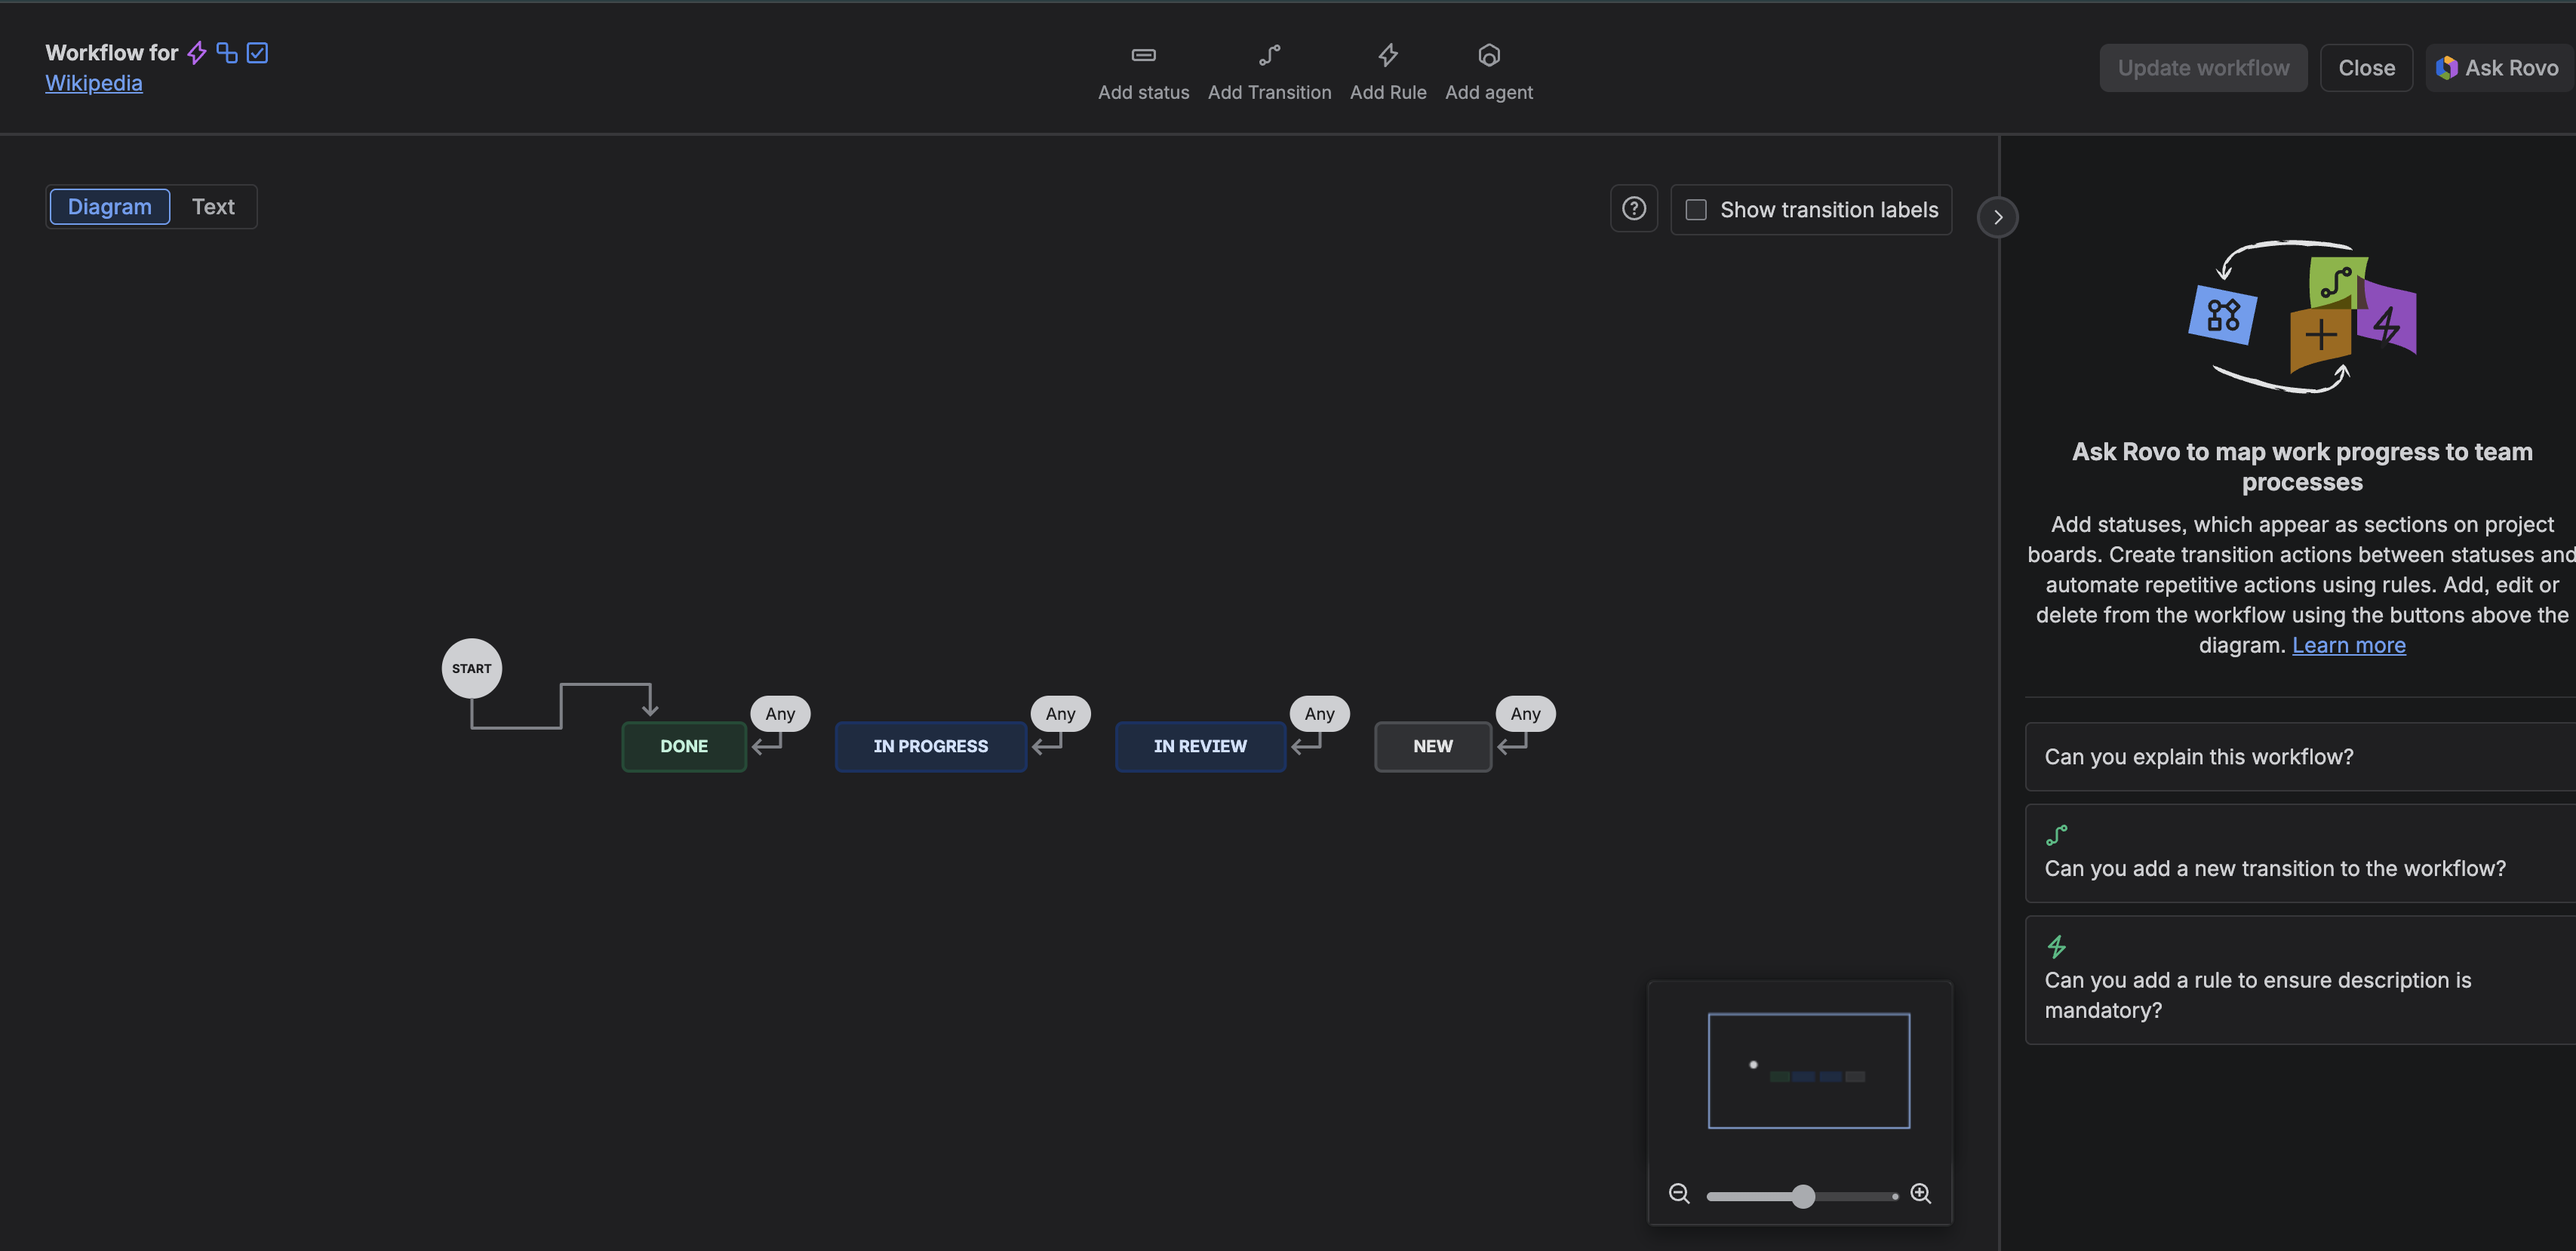
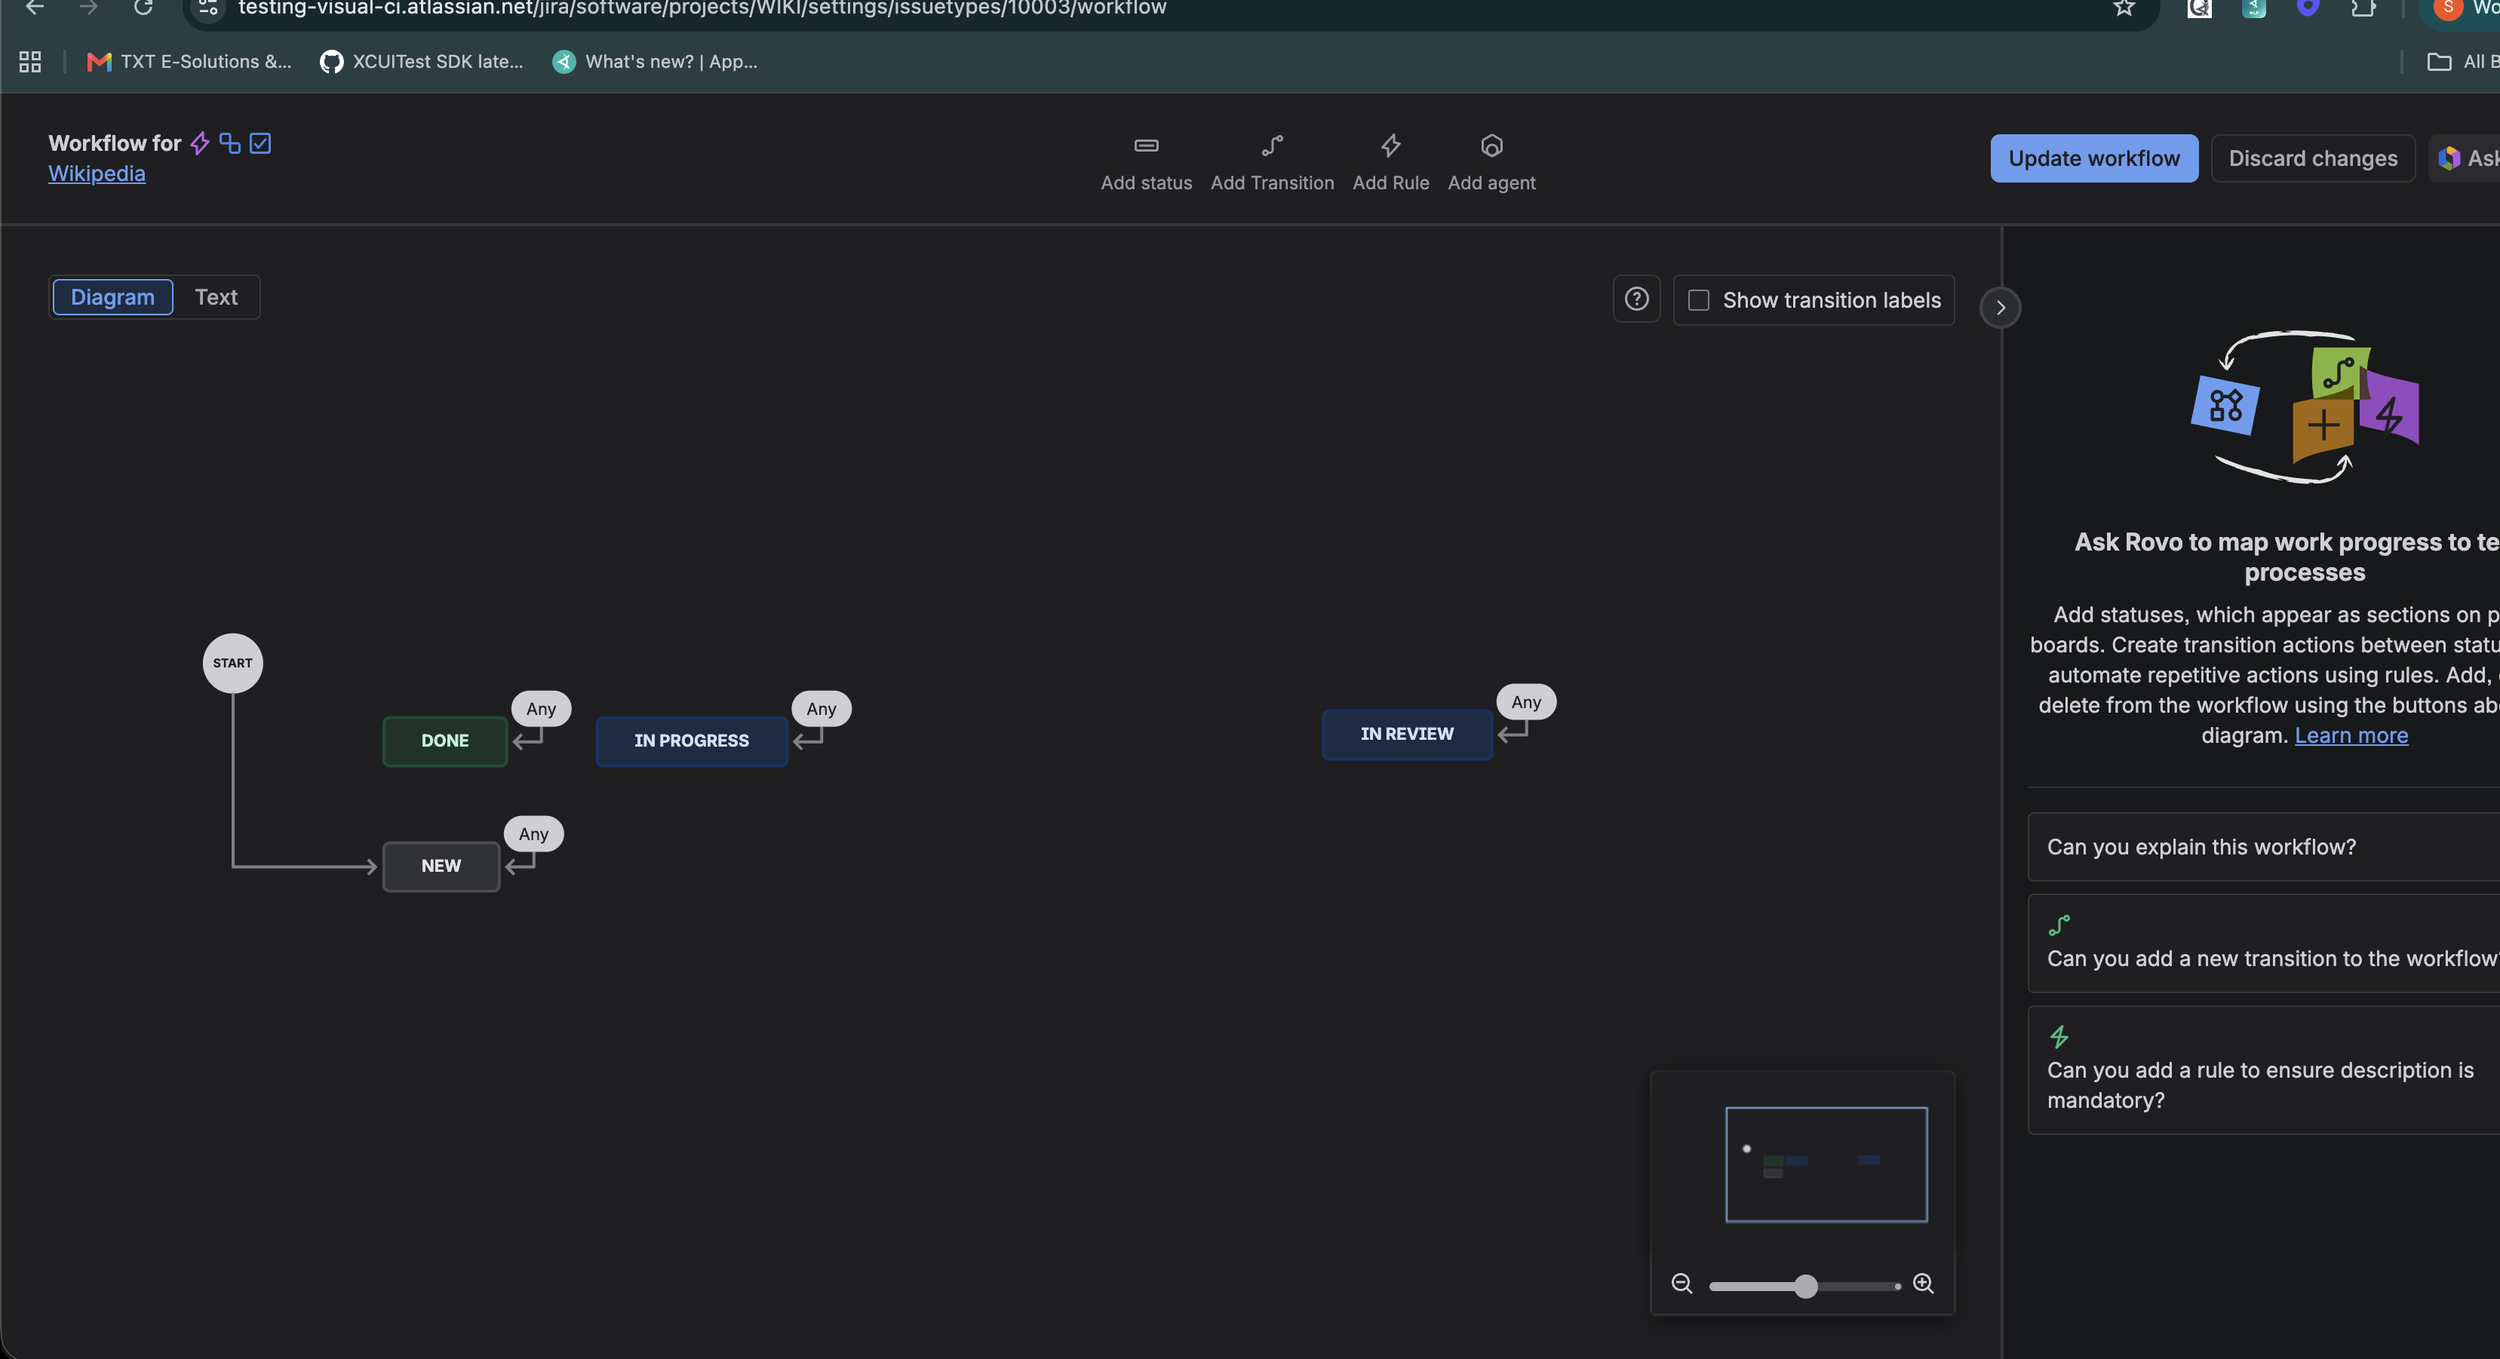
INSTALLATION 6.2: screenshot of the correct workflow (START → New)

diff --git a/docs/INSTALLATION.md b/docs/INSTALLATION.md
@@ -170,7 +170,7 @@ tickets become WIKI-1, WIKI-2, … and branch names contain that key.
 
 ![Jira workflow: the START arrow must point to New](installation/images/jira-workflow.png)
 
-In the screenshot, START still points to Done: that is the setting to change.
+In the screenshot, START points to New and every status has the Any marker: this is the correct setup.
 
 Board: the columns should be the same four ( Board → ⋯ → Configure board → Columns ). A board without sprints works best ( Space settings → Features → Sprints off ): a Scrum board only shows tickets in the current sprint, so new tickets would only appear in the Backlog.
 
